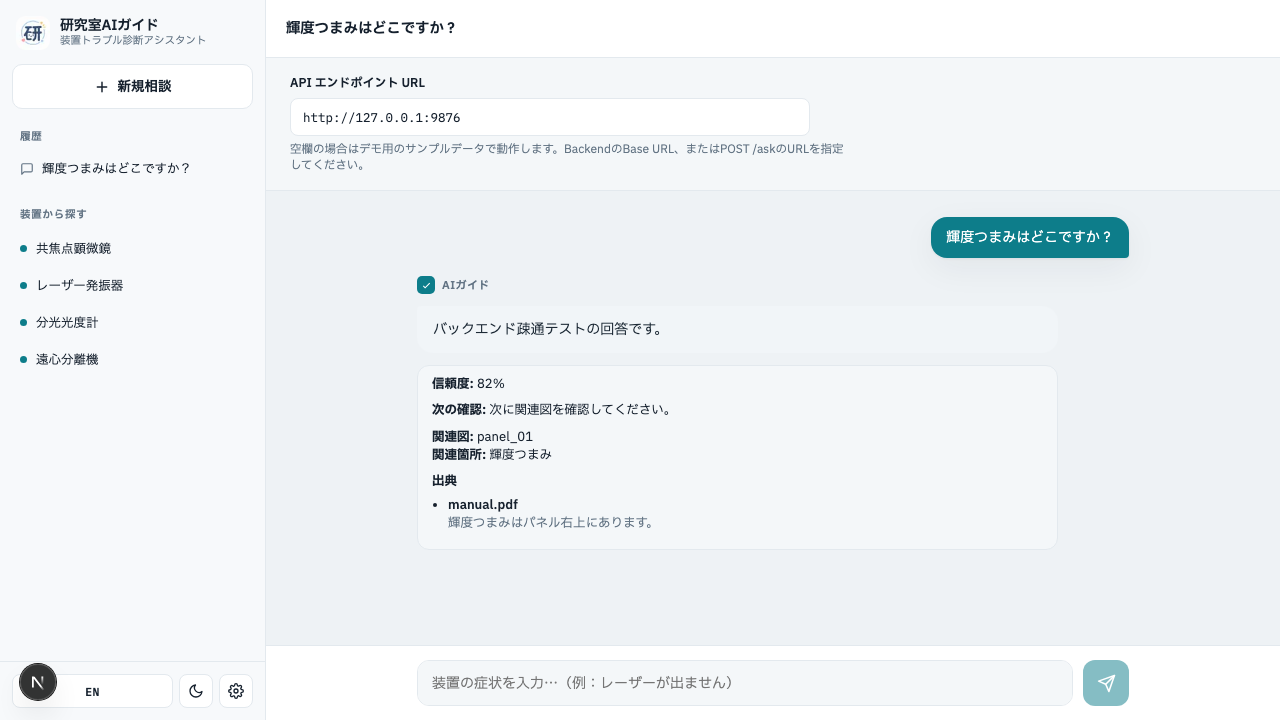
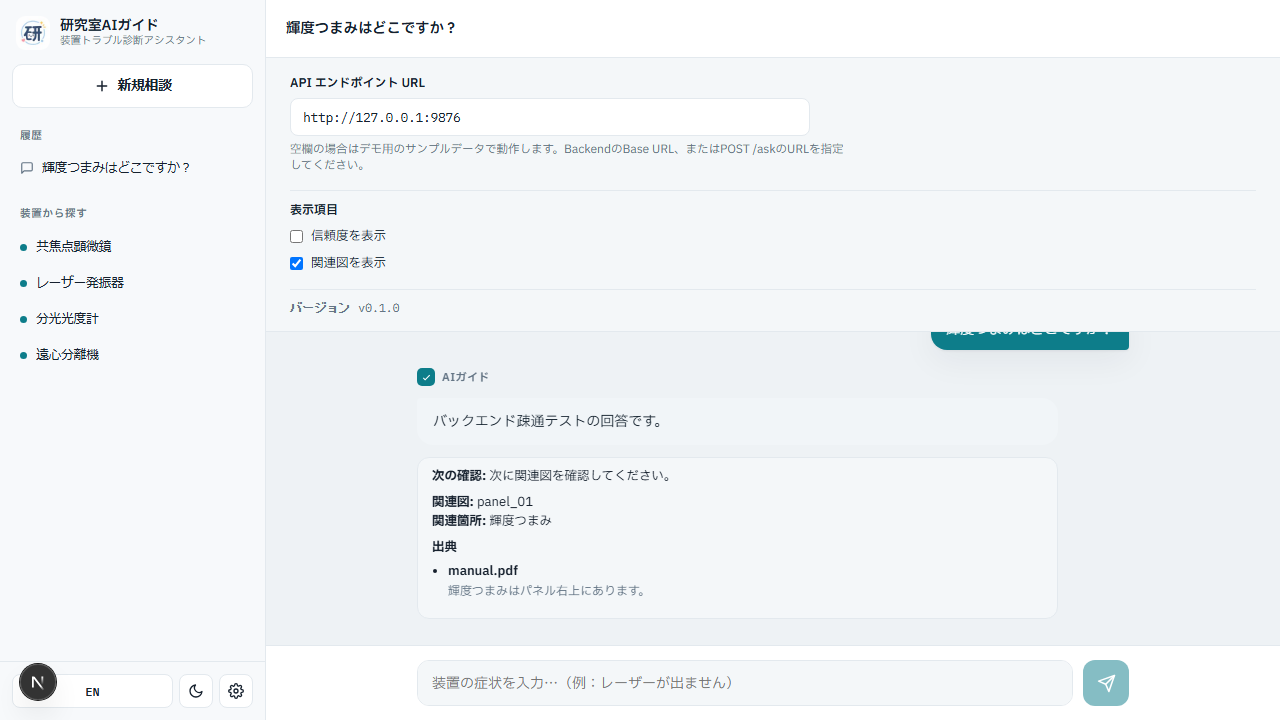
fix; render table

diff --git a/src/utils/answerParser.ts b/src/utils/answerParser.ts
@@ -8,15 +8,20 @@ export type AnswerBlock =
   | { type: "orderedList"; items: string[] }
   | { type: "unorderedList"; items: string[] }
   | { type: "quote"; lines: string[] }
-  | { type: "rule" };
+  | { type: "rule" }
+  | { type: "table"; headers: string[]; rows: string[][]; alignments?: ("left" | "center" | "right" | null)[] };
 
 const MARKDOWN_SHORTCODE_PATTERN = /:([a-z0-9_+-]+):/gi;
 const ORDERED_ITEM_PATTERN = /^(\d+)\.\s+(.+)$/;
 const UNORDERED_ITEM_PATTERN = /^[-*]\s+(.+)$/;
 
 function normalizeAnswerText(text: string) {
-  return text
+  // Normalize row boundaries for tables that might be inline or missing proper newlines
+  const normalized = text
     .replace(/\r\n?/g, "\n")
+    .replace(/\|[ \t]*\n?[ \t]*\|/g, "|\n|");
+
+  return normalized
     .replace(/[ \t]+(---)(?=[ \t]|$)/g, "\n$1\n")
     .replace(/(^|[^\n])[ \t]+(#{1,6}[ \t]+)/g, "$1\n$2")
     .replace(/(^|[^\n])[ \t]+(>[ \t]*)/g, "$1\n$2")
@@ -27,6 +32,49 @@ function normalizeAnswerText(text: string) {
 
 function cleanInlineText(text: string) {
   return text.replace(MARKDOWN_SHORTCODE_PATTERN, "").replace(/[ \t]{2,}/g, " ").trim();
+}
+
+function isTableSeparator(line: string): boolean {
+  const trimmed = line.trim();
+  if (!trimmed.startsWith("|") || !trimmed.endsWith("|")) {
+    return false;
+  }
+  return /^[|:\-\s]+$/.test(trimmed);
+}
+
+function isTableStart(lines: string[], idx: number): boolean {
+  const currentLine = lines[idx];
+  const nextLine = lines[idx + 1];
+  if (!currentLine || !nextLine) return false;
+  return currentLine.startsWith("|") && isTableSeparator(nextLine);
+}
+
+function parseTableRow(line: string): string[] {
+  let trimmed = line.trim();
+  if (trimmed.startsWith("|")) {
+    trimmed = trimmed.slice(1);
+  }
+  if (trimmed.endsWith("|")) {
+    trimmed = trimmed.slice(0, -1);
+  }
+  return trimmed.split(/(?<!\\)\|/).map((cell) => cell.replace(/\\\|/g, "|").trim());
+}
+
+function parseAlignments(line: string): ("left" | "center" | "right" | null)[] {
+  const cells = parseTableRow(line);
+  return cells.map((cell) => {
+    const trimmed = cell.trim();
+    const starts = trimmed.startsWith(":");
+    const ends = trimmed.endsWith(":");
+    if (starts && ends) {
+      return "center";
+    } else if (starts) {
+      return "left";
+    } else if (ends) {
+      return "right";
+    }
+    return null;
+  });
 }
 
 export function parseAnswerInline(text: string): AnswerInlineSegment[] {
@@ -64,6 +112,29 @@ export function parseAnswerBlocks(text: string): AnswerBlock[] {
         type: "heading",
         level: headingMatch[1].length,
         text: cleanInlineText(headingMatch[2]),
+      });
+      continue;
+    }
+
+    if (isTableStart(lines, index)) {
+      const headerRow = lines[index];
+      const separatorRow = lines[index + 1];
+      const alignments = parseAlignments(separatorRow);
+      const headers = parseTableRow(headerRow);
+      const rows: string[][] = [];
+
+      index += 1; // skip separator row
+
+      while (lines[index + 1] && lines[index + 1].startsWith("|")) {
+        index += 1;
+        rows.push(parseTableRow(lines[index]));
+      }
+
+      blocks.push({
+        type: "table",
+        headers,
+        rows,
+        alignments,
       });
       continue;
     }
@@ -109,7 +180,8 @@ export function parseAnswerBlocks(text: string): AnswerBlock[] {
       !/^(#{1,6})\s+/.test(lines[index + 1]) &&
       !ORDERED_ITEM_PATTERN.test(lines[index + 1]) &&
       !UNORDERED_ITEM_PATTERN.test(lines[index + 1]) &&
-      !lines[index + 1].startsWith(">")
+      !lines[index + 1].startsWith(">") &&
+      !isTableStart(lines, index + 1)
     ) {
       index += 1;
       paragraphLines.push(lines[index]);
@@ -121,6 +193,7 @@ export function parseAnswerBlocks(text: string): AnswerBlock[] {
     if (block.type === "rule") return true;
     if (block.type === "heading" || block.type === "paragraph") return block.text.length > 0;
     if (block.type === "quote") return block.lines.length > 0;
+    if (block.type === "table") return block.headers.length > 0 || block.rows.length > 0;
     return block.items.length > 0;
   });
 }

diff --git a/src/components/chat/AnswerMessage.tsx b/src/components/chat/AnswerMessage.tsx
@@ -83,6 +83,41 @@ function FormattedAnswerText({ text }: { text: string }) {
           );
         }
 
+        if (block.type === "table") {
+          return (
+            <div key={index} className="answer-rich-text-table-wrapper">
+              <table>
+                <thead>
+                  <tr>
+                    {block.headers.map((header, headerIndex) => {
+                      const alignment = block.alignments?.[headerIndex] || "left";
+                      return (
+                        <th key={headerIndex} style={{ textAlign: alignment }}>
+                          {renderInlineText(header)}
+                        </th>
+                      );
+                    })}
+                  </tr>
+                </thead>
+                <tbody>
+                  {block.rows.map((row, rowIndex) => (
+                    <tr key={rowIndex}>
+                      {row.map((cell, cellIndex) => {
+                        const alignment = block.alignments?.[cellIndex] || "left";
+                        return (
+                          <td key={cellIndex} style={{ textAlign: alignment }}>
+                            {renderInlineText(cell)}
+                          </td>
+                        );
+                      })}
+                    </tr>
+                  ))}
+                </tbody>
+              </table>
+            </div>
+          );
+        }
+
         return <p key={index}>{renderInlineText(block.text)}</p>;
       })}
     </div>

diff --git a/src/app/globals.css b/src/app/globals.css
@@ -252,6 +252,56 @@ textarea {
   gap: 4px;
 }
 
+.answer-rich-text-table-wrapper {
+  width: 100%;
+  overflow-x: auto;
+  border: 1px solid var(--border);
+  border-radius: 8px;
+  background-color: var(--surface);
+  box-shadow: 0 1px 3px rgba(0, 0, 0, 0.05);
+  margin: 6px 0;
+}
+
+.answer-rich-text table {
+  width: 100%;
+  border-collapse: collapse;
+  text-align: left;
+  font-size: 13.5px;
+  line-height: 1.5;
+}
+
+.answer-rich-text th {
+  font-weight: 700;
+  background-color: var(--surface2);
+  color: var(--text);
+  padding: 10px 14px;
+  border-bottom: 2px solid var(--border);
+  white-space: nowrap;
+}
+
+.answer-rich-text td {
+  padding: 10px 14px;
+  border-bottom: 1px solid var(--border);
+  color: var(--text);
+  vertical-align: middle;
+}
+
+.answer-rich-text tr:last-child td {
+  border-bottom: none;
+}
+
+.answer-rich-text tr {
+  transition: background-color 0.2s ease;
+}
+
+.answer-rich-text tr:nth-child(even) {
+  background-color: var(--surface2);
+}
+
+.answer-rich-text tr:hover {
+  background-color: var(--hover);
+}
+
 .answer-rich-text hr {
   width: 100%;
   border: 0;

diff --git a/src/hooks/useChatController.ts b/src/hooks/useChatController.ts
@@ -250,13 +250,15 @@ export function useChatController({ endpoint, lang, errorMessage }: UseChatContr
         const next = { ...prev, [msgId]: nextIdx };
 
         if (currentConversationId) {
-          updateStoredConversations((stored) =>
-            stored.map((conv) =>
-              conv.id === currentConversationId
-                ? { ...conv, stepIndex: next, updatedAt: Date.now() }
-                : conv,
-            ),
-          );
+          setTimeout(() => {
+            updateStoredConversations((stored) =>
+              stored.map((conv) =>
+                conv.id === currentConversationId
+                  ? { ...conv, stepIndex: next, updatedAt: Date.now() }
+                  : conv,
+              ),
+            );
+          }, 0);
         }
 
         return next;

diff --git a/src/app/page.tsx b/src/app/page.tsx
@@ -187,7 +187,9 @@ export default function Page() {
   // Bypass boot screen in test automation environments to avoid delaying test suites.
   useEffect(() => {
     if (typeof navigator !== "undefined" && navigator.webdriver) {
-      setBooting(false);
+      setTimeout(() => {
+        setBooting(false);
+      }, 0);
     }
   }, []);
 
